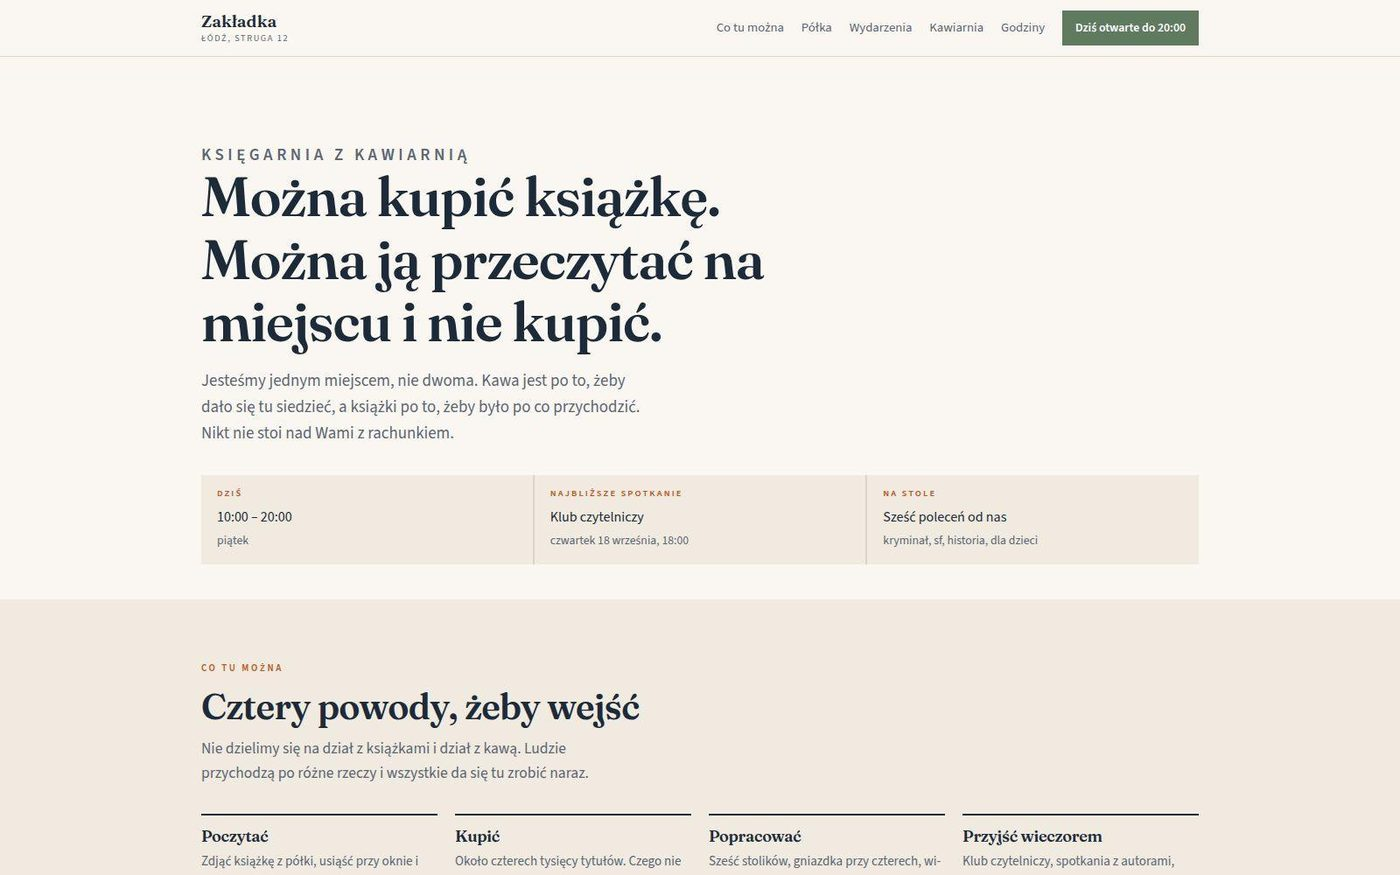
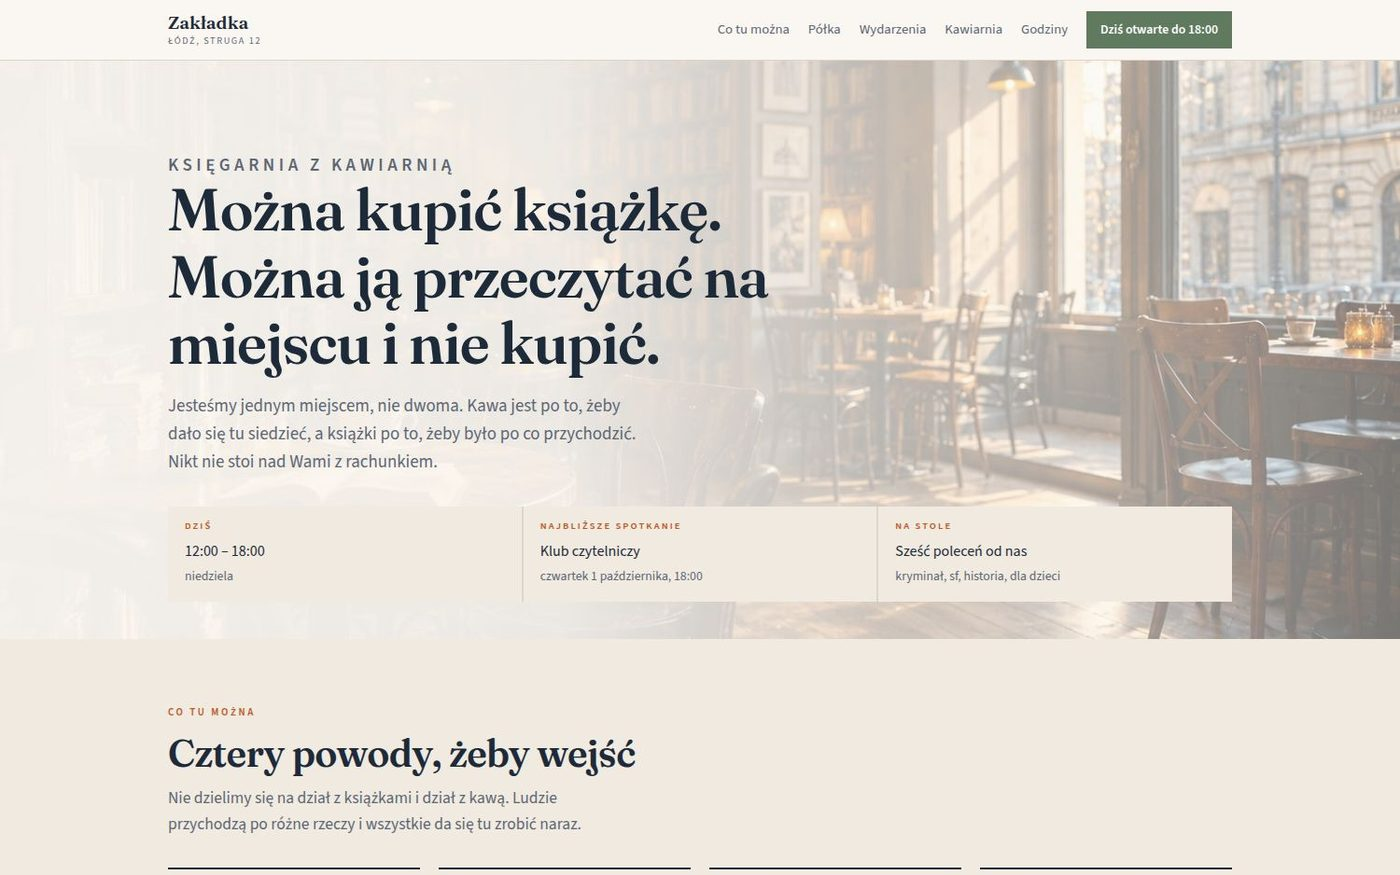
Add files via upload

diff --git a/index.html b/index.html
@@ -137,7 +137,7 @@
 
       <article class="praca" id="p-teatr">
         <a class="praca-foto" href="https://alexgreen-art.github.io/teatr/" target="_blank" rel="noopener">
-          <div class="ph" data-opis="zrzut ekranu: Teatr na Piętrze"><img src="img/teatr.jpg" width="1400" height="875" loading="lazy" decoding="async" alt="Zrzut ekranu strony Teatr na Piętrze"></div>
+          <div class="ph" data-opis="zrzut ekranu: Teatr na Piętrze"><img src="img/teatr.jpg?v=2" width="1400" height="875" loading="lazy" decoding="async" alt="Zrzut ekranu strony Teatr na Piętrze"></div>
         </a>
         <div class="praca-tresc">
           <p class="plakietka">projekt pokazowy</p>
@@ -151,7 +151,7 @@
 
       <article class="praca" id="p-ksiegarnia">
         <a class="praca-foto" href="https://alexgreen-art.github.io/ksiegarnia/" target="_blank" rel="noopener">
-          <div class="ph" data-opis="zrzut ekranu: Zakładka"><img src="img/ksiegarnia.jpg" width="1400" height="875" loading="lazy" decoding="async" alt="Zrzut ekranu strony Zakładka — księgarnia z kawiarnią"></div>
+          <div class="ph" data-opis="zrzut ekranu: Zakładka"><img src="img/ksiegarnia.jpg?v=2" width="1400" height="875" loading="lazy" decoding="async" alt="Zrzut ekranu strony Zakładka — księgarnia z kawiarnią"></div>
         </a>
         <div class="praca-tresc">
           <p class="plakietka">projekt pokazowy</p>
